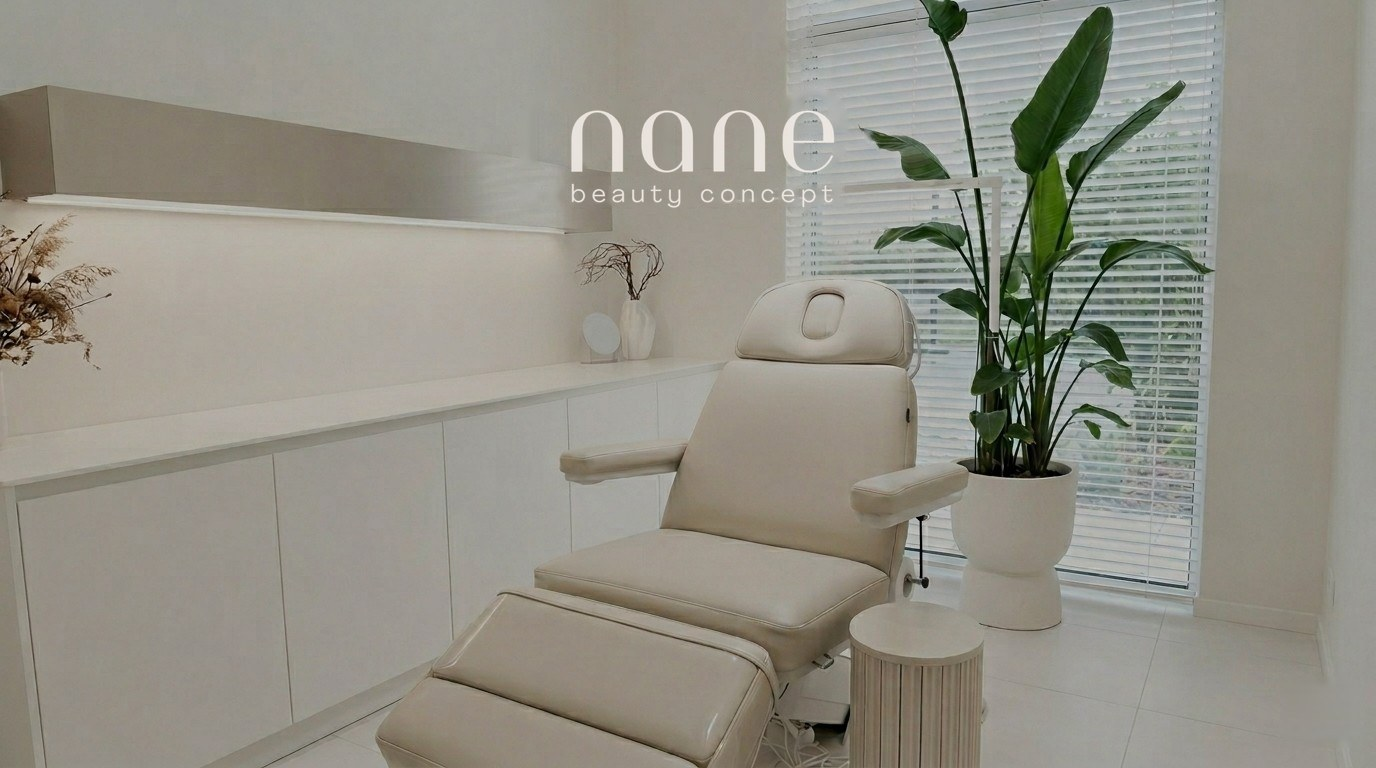
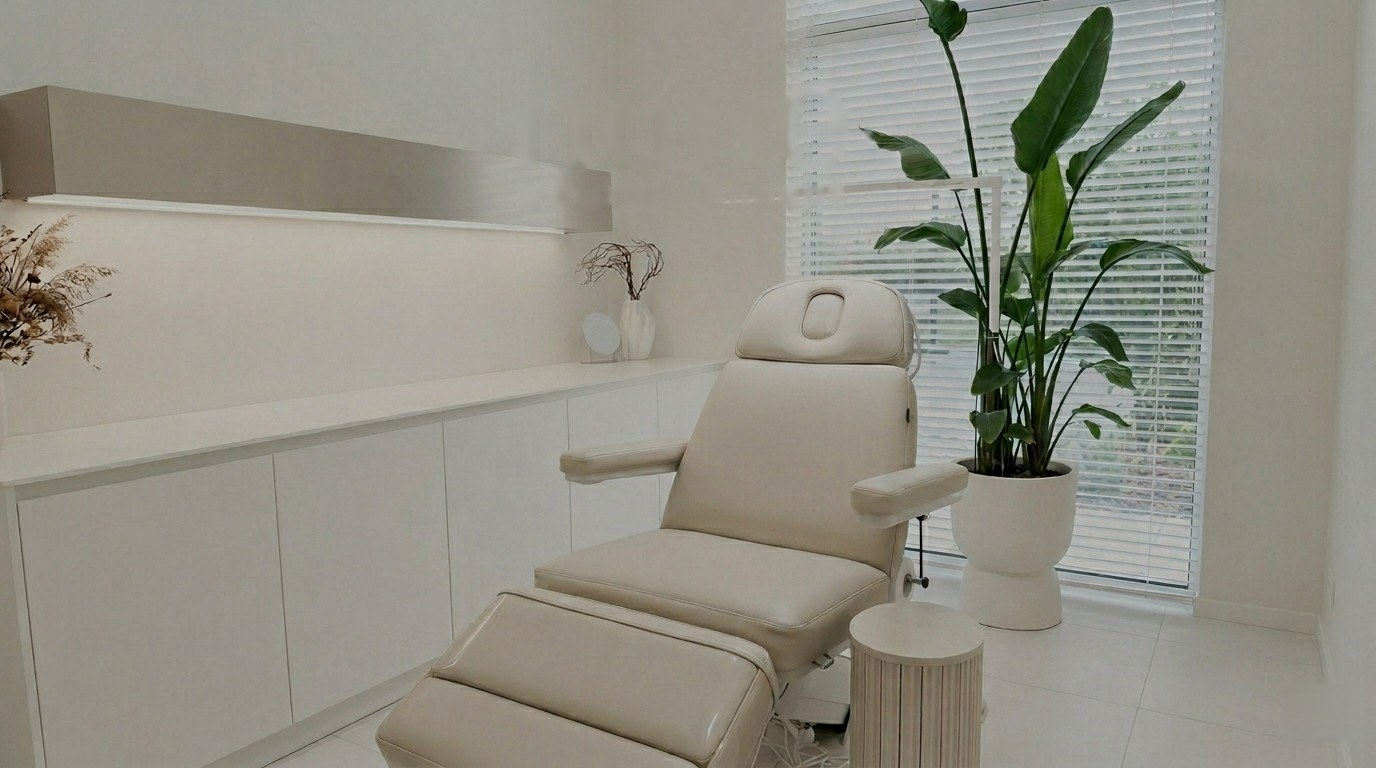
Hero: pełny opis nane beauty concept (#38)
* Hero: pełny opis nane beauty concept

Zastąpiono krótki tagline pełnym, trzyakapitowym opisem marki.
Powiększono wysokość hero i dostosowano typografię/gradient tła,
żeby tekst mieścił się czytelnie na zdjęciu na desktopie i mobile.

* Hero: usuń pogrubienie i dodaj wielką literę w pierwszym słowie opisu

* Hero: mniejsze białe logo jako overlay HTML zamiast wypalonego w zdjęciu

Usunięto logo wypalone w hero2.jpeg (inpainting) i nałożono je jako
element HTML (logo-white.png, czysta biel jak w oryginale). Dzięki temu
logo skaluje się responsywnie i zawsze siedzi równo nad opisem,
także na mobile — nie jest przycinane przez object-fit zdjęcia.

* Hero: logo wyżej na desktopie — centrowane w wolnej przestrzeni nad opisem

* Hero: logo delikatnie niżej na desktopie

* Hero: delikatnie większy odstęp między opisem a przyciskami

* Hero: większe odstępy między akapitami opisu (tylko desktop)

Rozsunięcie akapitów wypełnia pustą przestrzeń nad opisem na desktopie,
przez co duża luka między logo a tekstem wygląda naturalniej.
Mobile bez zmian.

---------

Changed region(s): [[0.4062, 0.125, 0.625, 0.2812], [0.5312, 0.25, 0.5938, 0.2812]]

diff --git a/public/index.html b/public/index.html
@@ -47,8 +47,10 @@
   .btn-hero-outline{ transition:background .22s, border-color .22s; }
   .btn-hero-outline:hover{ background:rgba(243,236,230,.14) !important; border-color:rgba(243,236,230,.85) !important; }
   /* hero content: tekst nisko (pod logo) na mobile, bliżej logo na desktop */
-  .hero-content{ padding:0 clamp(20px,5vw,40px) clamp(44px,7vh,110px); }
-  @media(min-width:821px){ .hero-content{ padding-bottom:clamp(120px,18vh,185px); } }
+  .hero-content{ padding:0 clamp(20px,5vw,40px) clamp(28px,5vh,60px); display:flex; flex-direction:column; align-items:center; justify-content:flex-end; align-self:stretch; }
+  /* logo centruje się w wolnej przestrzeni nad opisem */
+  .hero-logo{ width:clamp(150px,22vw,210px); height:auto; display:block; margin:auto; padding:clamp(24px,7vh,72px) 0 clamp(22px,4vh,36px); filter:drop-shadow(0 2px 14px rgba(20,16,14,.4)); }
+  @media(min-width:821px){ .hero-content{ padding-bottom:clamp(60px,10vh,100px); } .hero-p{ margin-bottom:clamp(28px,4.5vh,52px) !important; } }
   /* Footer */
   .footer-nav-btn{ transition:color .18s; }
   .footer-nav-btn:hover{ color:#a78d76 !important; }
@@ -236,11 +238,15 @@
   <!-- ===================== PAGE: HOME ===================== -->
   <div data-page="home" class="is-active">
     <!-- hero -->
-    <div style="position:relative; min-height:clamp(540px,80vh,800px); display:flex; align-items:flex-end; justify-content:center; overflow:hidden;">
+    <div style="position:relative; min-height:clamp(680px,92vh,960px); display:flex; align-items:flex-end; justify-content:center; overflow:hidden;">
       <img src="images/hero2.jpeg" alt="nane beauty concept — wnętrze gabinetu" style="position:absolute; inset:0; width:100%; height:100%; object-fit:cover; object-position:center 50%;">
-      <div style="position:absolute; inset:0; background:linear-gradient(180deg, rgba(28,24,21,.16) 0%, rgba(28,24,21,.04) 38%, rgba(28,24,21,.34) 70%, rgba(28,24,21,.60) 100%);"></div>
-      <div data-reveal class="hero-content" style="position:relative; z-index:2; text-align:center; max-width:580px;">
-        <p style="max-width:480px; margin:0 auto 32px; font-size:16px; line-height:1.8; color:#fbf7f3; text-shadow:0 2px 18px rgba(20,16,14,.7);">Nowoczesne zabiegi na twarz i ciało — od liftingu Morpheus8 po modelowanie Icoone Laser Body. W kameralnym wnętrzu, z pełną dbałością o Twój komfort i naturalny efekt.</p>
+      <div style="position:absolute; inset:0; background:linear-gradient(180deg, rgba(28,24,21,.18) 0%, rgba(28,24,21,.10) 30%, rgba(28,24,21,.46) 65%, rgba(28,24,21,.70) 100%);"></div>
+      <div data-reveal class="hero-content" style="position:relative; z-index:2; text-align:center; max-width:720px;">
+        <img src="images/logo-white.png" alt="nane beauty concept" class="hero-logo">
+        <p class="hero-p" style="max-width:640px; margin:0 auto 16px; font-size:clamp(12.5px,1.35vw,14px); line-height:1.65; color:#fbf7f3; text-shadow:0 2px 18px rgba(20,16,14,.75);">Nane beauty concept jest nowoczesną koncepcją piękna stworzoną dla osób, które oczekują najwyższej jakości, profesjonalizmu i holistycznej pielęgnacji. To miejsce, w którym nowoczesne technologie, estetyka i ekspercka wiedza tworzą spójną przestrzeń dedykowaną pięknu, zdrowiu skóry i dobremu samopoczuciu.</p>
+        <p class="hero-p" style="max-width:640px; margin:0 auto 16px; font-size:clamp(12.5px,1.35vw,14px); line-height:1.65; color:#fbf7f3; text-shadow:0 2px 18px rgba(20,16,14,.75);">Każdy zabieg dobieramy indywidualnie, kierując się potrzebami skóry oraz oczekiwaniami naszych klientów. Łączymy skuteczne procedury, najnowocześniejsze technologie oraz wiedzę i doświadczenie naszego zespołu, aby osiągać naturalne, harmonijne i długotrwałe efekty.</p>
+        <p style="max-width:640px; margin:0 auto 28px; font-size:clamp(12.5px,1.35vw,14px); line-height:1.65; color:#fbf7f3; text-shadow:0 2px 18px rgba(20,16,14,.75);">Nane Beauty Concept wyróżnia również eleganckie, ciepłe i przyjazne wnętrze, zaprojektowane z dbałością o każdy detal. To przestrzeń, w której profesjonalna opieka, komfort oraz wysoki standard usług tworzą wyjątkowe doświadczenie dla każdego, kto ceni jakość, estetykę i indywidualne podejście.</p>
+        <div style="height:clamp(20px,4vh,44px);"></div>
         <div style="display:flex; gap:14px; flex-wrap:wrap; justify-content:center;">
           <a href="https://booksy.com/pl-pl/280551_nane-beauty-concept_salon-kosmetyczny_17342_rawicz" target="_blank" rel="noopener" class="btn-hero-light" style="text-decoration:none; display:inline-flex; align-items:center; height:52px; padding:0 30px; border-radius:999px; background:#f3ece6; color:#2a2421; font-size:14px; letter-spacing:.06em;">Rezerwacja Booksy</a>
           <button class="reset-btn btn-hero-outline" data-nav="zabiegi" style="display:inline-flex; align-items:center; height:52px; padding:0 30px; border-radius:999px; background:transparent; color:#f3ece6; border:1px solid rgba(243,236,230,.55); font-size:14px; letter-spacing:.06em;">Zobacz cennik</button>
